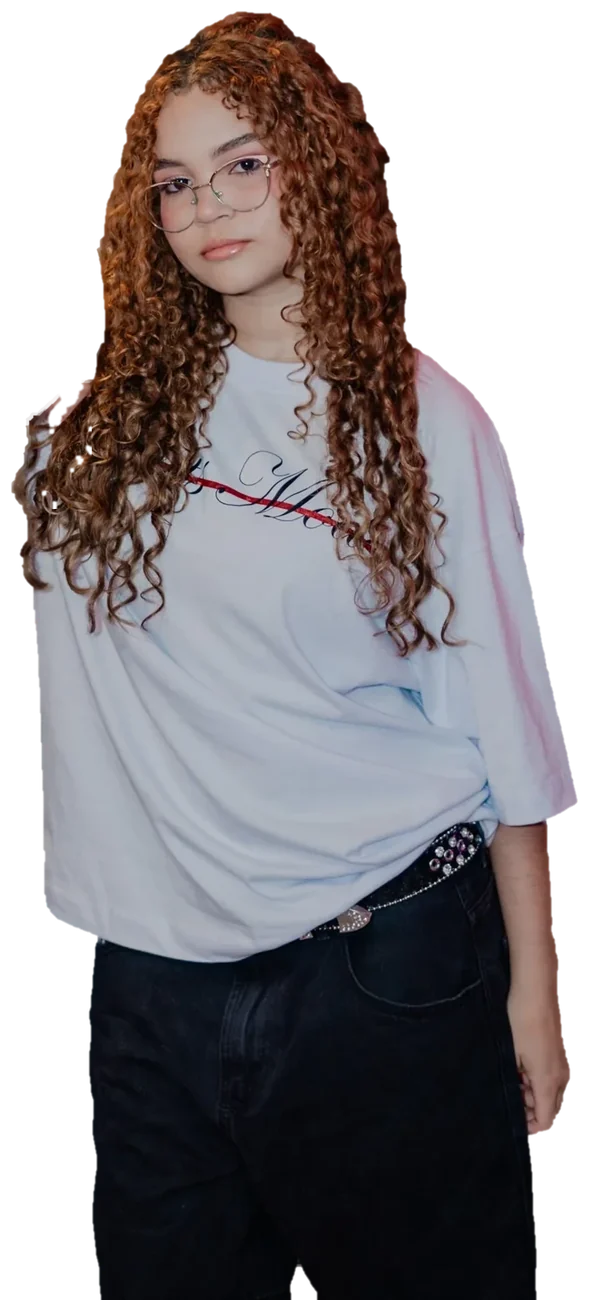
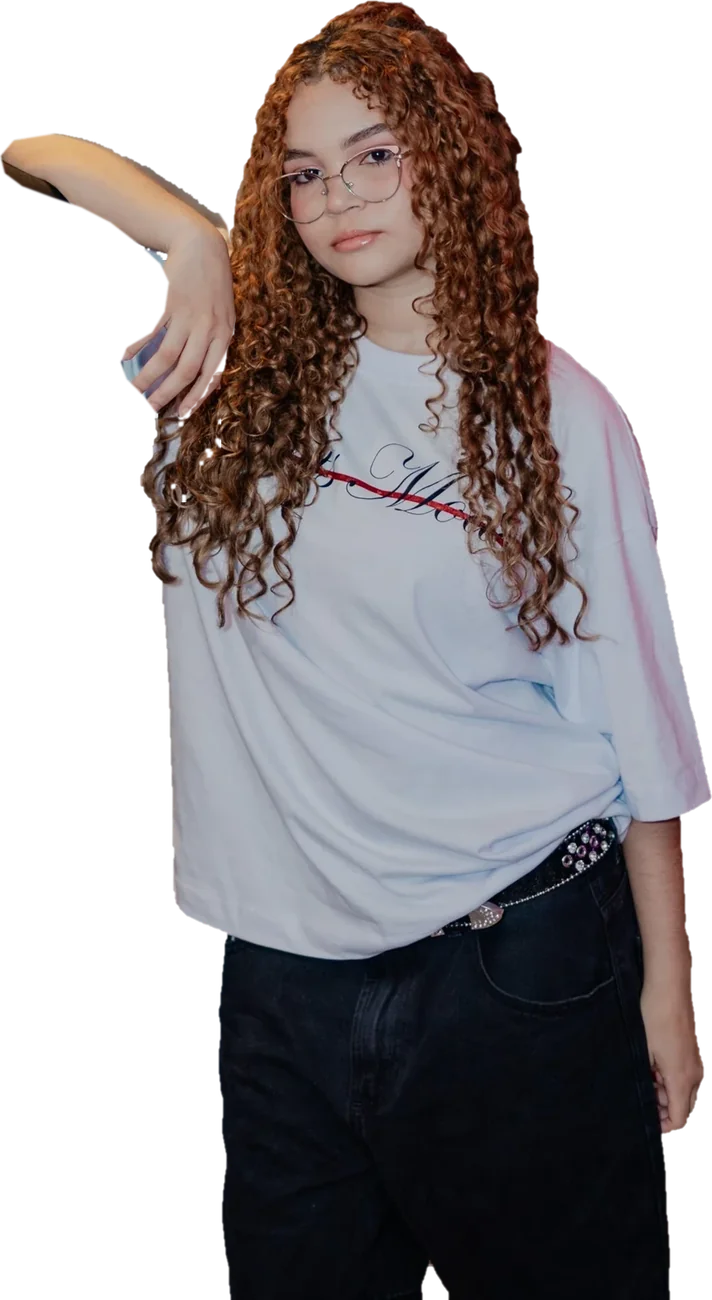
Angel Victoria: fotos de modelos en negro y blanco, brazo de la modelo de rizos recuperado
Claude-Session: https://claude.ai/code/session_013ynmKTYERfCmJQKP2pb1Nx

diff --git a/js/data/products.js b/js/data/products.js
@@ -76,11 +76,18 @@ export const PRODUCTS = [
       [
         { src: `${SAINTS_NEW}estatua-negro-frente.webp`, alt: 'Camiseta Angel Victoria negra, frente' },
         { src: `${SAINTS_NEW}estatua-negro-espalda.webp`, alt: 'Camiseta Angel Victoria negra, espalda' },
+        { src: `${SAINTS_NEW}modelo-victoria-negro-1.webp`, alt: 'Modelo con la Camiseta Angel Victoria negra', model: true },
+        { src: `${SAINTS_NEW}modelo-victoria-negro-4.webp`, alt: 'Modelo con la Camiseta Angel Victoria negra', model: true },
+        { src: `${SAINTS_NEW}modelo-victoria-negro-2.webp`, alt: 'Modelo con la Camiseta Angel Victoria negra', model: true },
+        { src: `${SAINTS_NEW}modelo-victoria-negro-3.webp`, alt: 'Modelo con la Camiseta Angel Victoria negra', model: true },
       ],
       [
         { src: `${SAINTS_NEW}estatua-blanco-frente.webp`, alt: 'Camiseta Angel Victoria blanca, frente' },
         { src: `${SAINTS_NEW}estatua-blanco-espalda.webp`, alt: 'Camiseta Angel Victoria blanca, espalda' },
+        { src: `${SAINTS_NEW}modelo-victoria-blanco-2.webp`, alt: 'Modelo con la Camiseta Angel Victoria blanca', model: true },
+        { src: `${SAINTS_NEW}modelo-victoria-blanco-4.webp`, alt: 'Modelo con la Camiseta Angel Victoria blanca', model: true },
         { src: `${SAINTS_NEW}modelo-victoria-blanco-1.webp`, alt: 'Modelo con la Camiseta Angel Victoria blanca', model: true },
+        { src: `${SAINTS_NEW}modelo-victoria-blanco-3.webp`, alt: 'Modelo con la Camiseta Angel Victoria blanca', model: true },
       ],
     ],
   },
@@ -234,7 +241,7 @@ export const PRODUCTS = [
 
 // Versión de las fotos: cámbiala cuando reemplaces una foto con el mismo nombre,
 // así el navegador no sigue mostrando la vieja guardada en caché.
-const FOTOS_VERSION = '2026-10-22c';
+const FOTOS_VERSION = '2026-10-22d';
 PRODUCTS.forEach((p) => p.gallery?.forEach((set) => set.forEach((g) => { g.src += `?v=${FOTOS_VERSION}`; })));
 
 /** Productos visibles en la tienda principal (sin los de drops bloqueados). */

diff --git a/index.html b/index.html
@@ -86,7 +86,7 @@
       "./js/core/cart-store.js": "./js/core/cart-store.js?v=0a8191d0",
       "./js/core/store.js": "./js/core/store.js?v=3f80d2ec",
       "./js/data/lookbook.js": "./js/data/lookbook.js?v=4e79963a",
-      "./js/data/products.js": "./js/data/products.js?v=cb7d3c94",
+      "./js/data/products.js": "./js/data/products.js?v=db2ece3e",
       "./js/main.js": "./js/main.js?v=37902f06",
       "./js/utils/dom.js": "./js/utils/dom.js?v=9f430828",
       "./js/utils/format.js": "./js/utils/format.js?v=1576479a",
